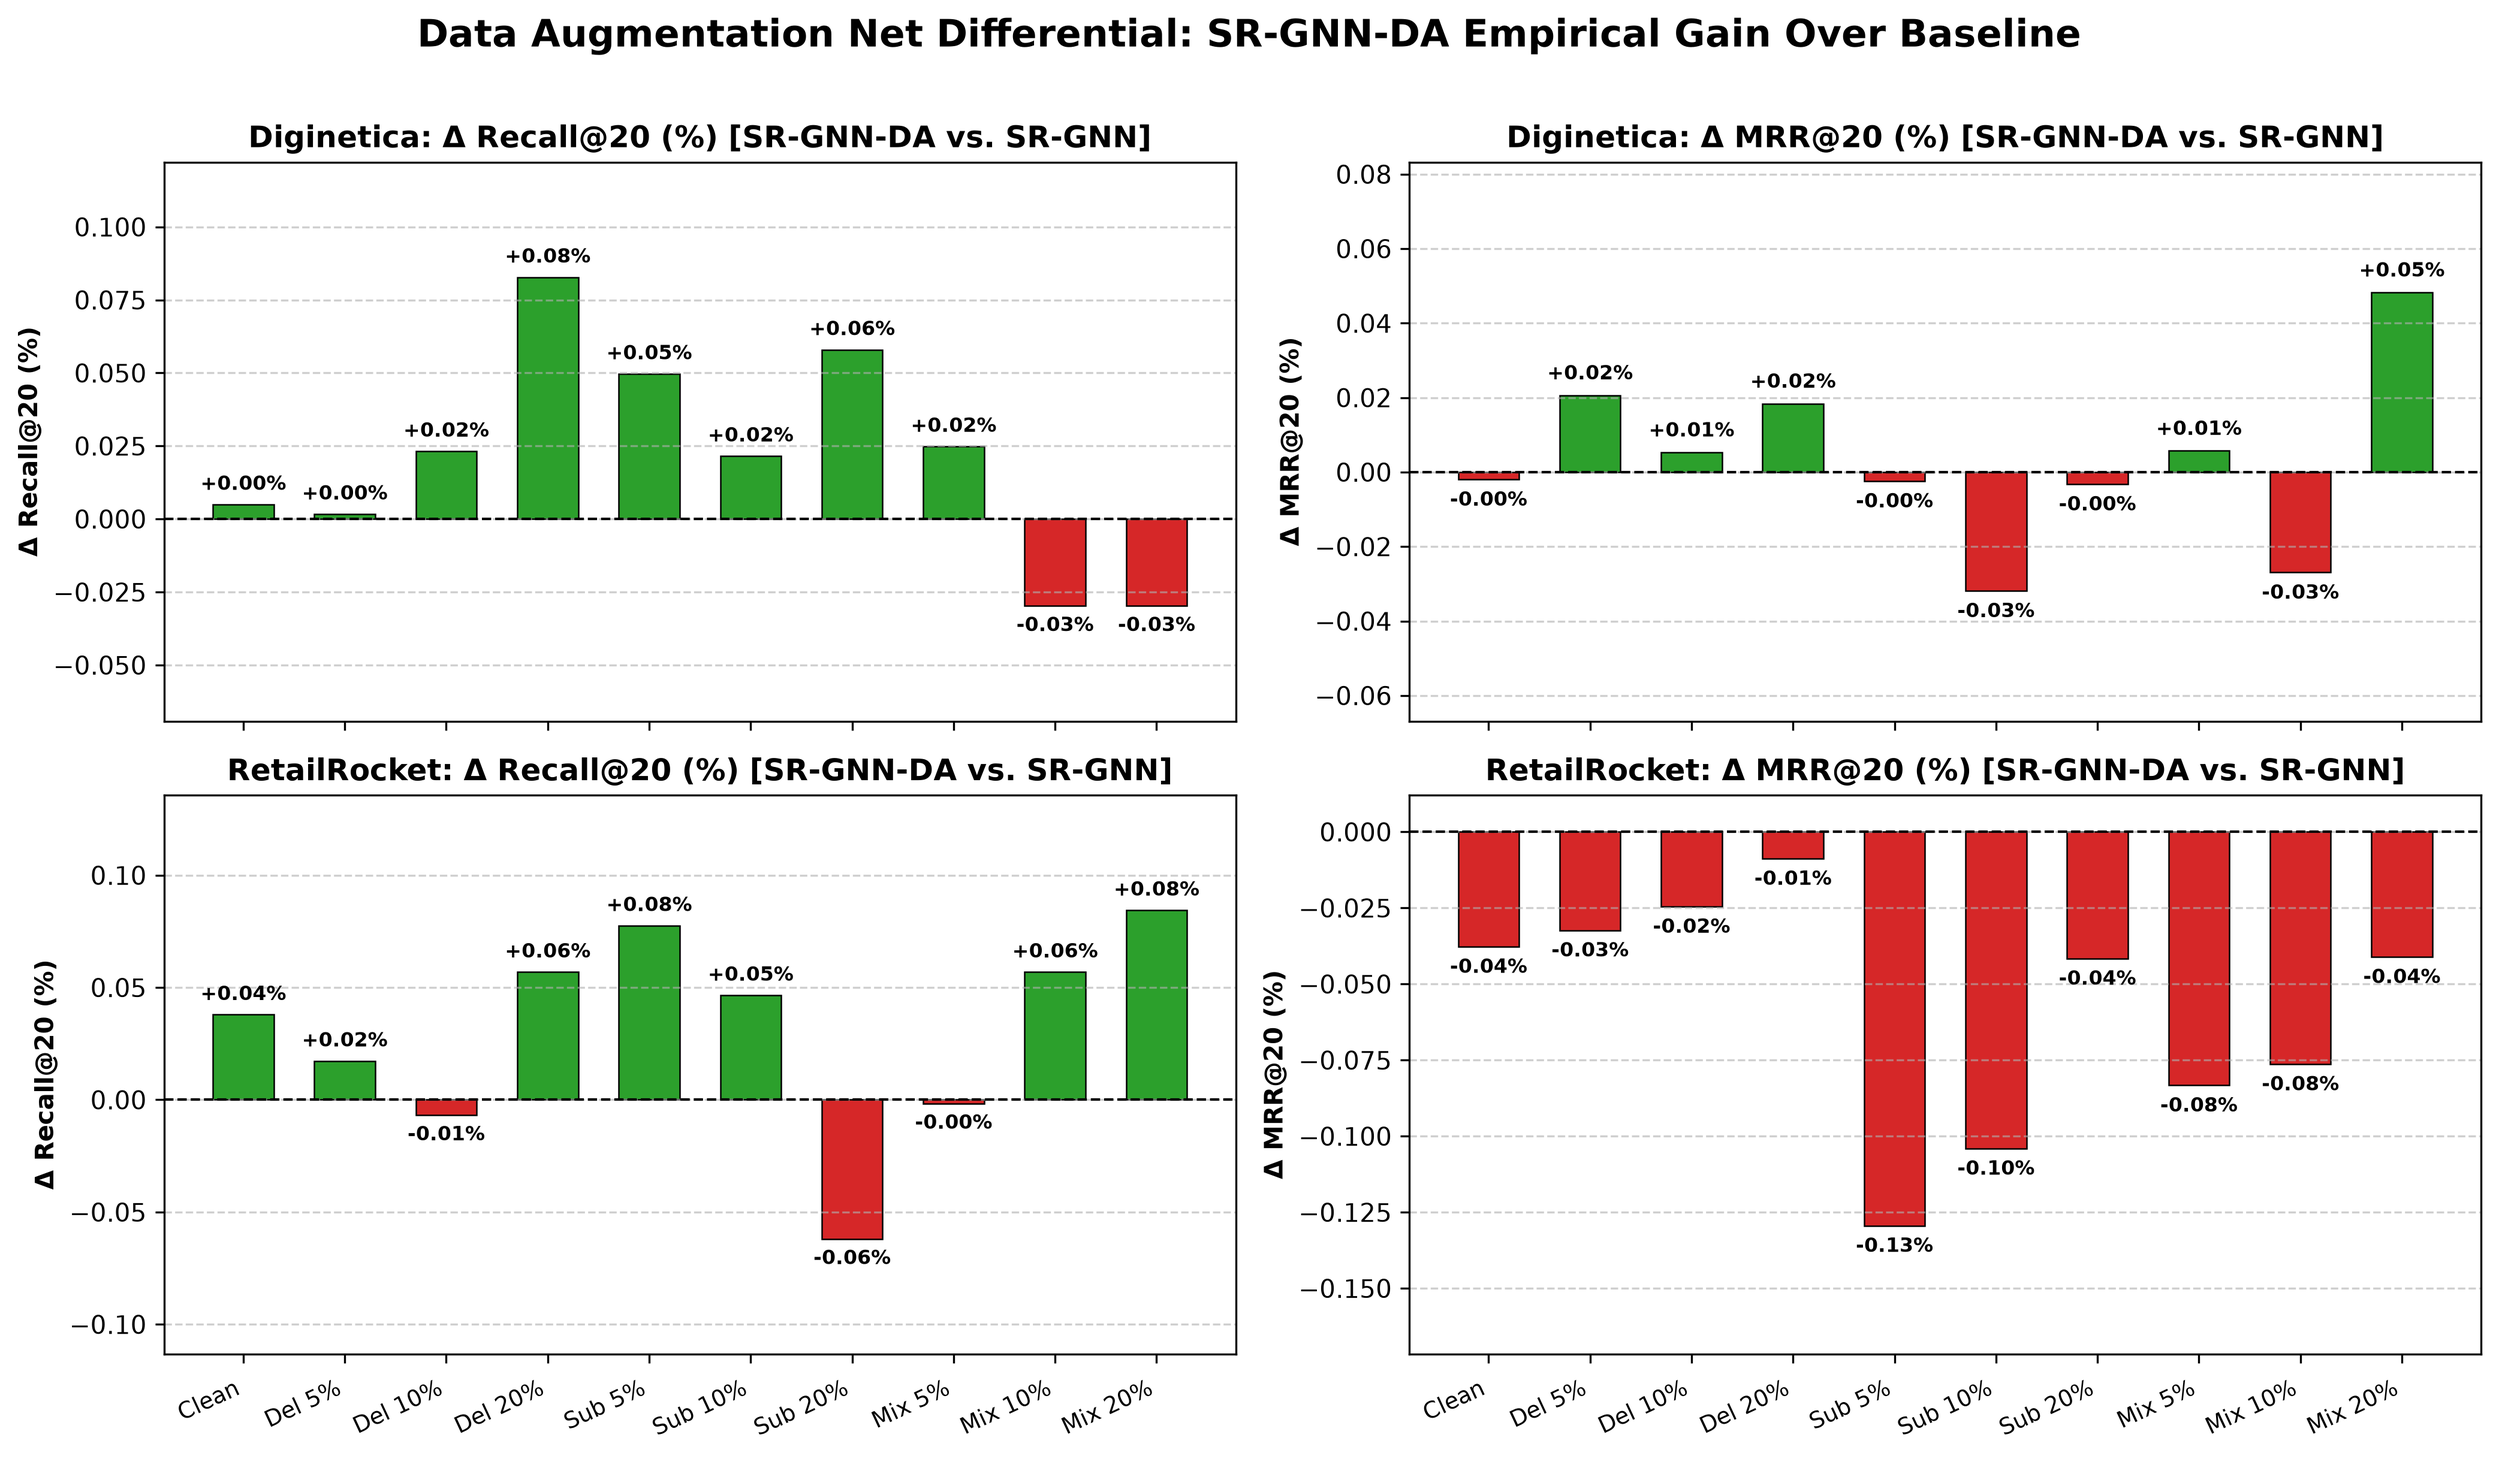
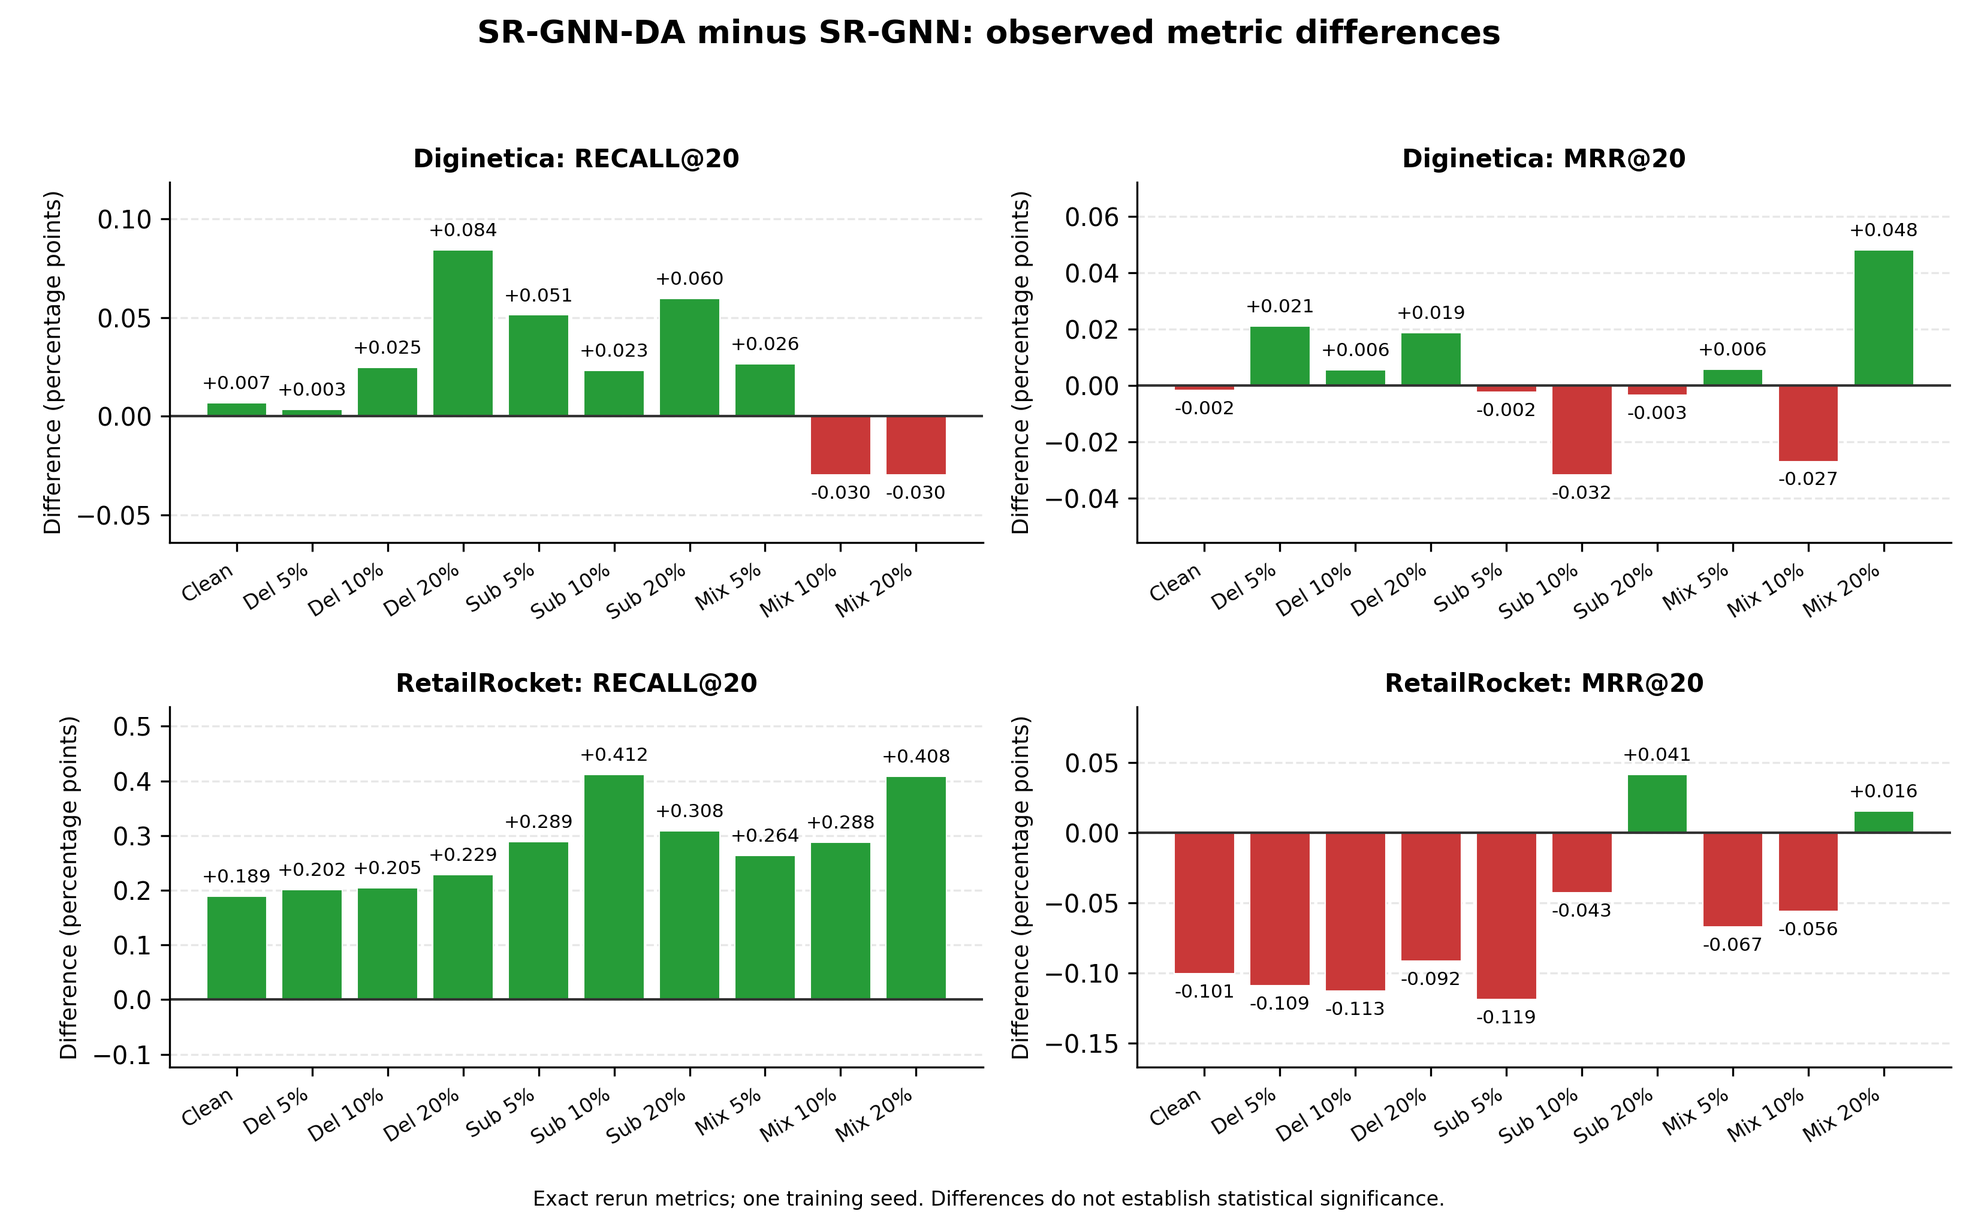
docs(report): refresh SR-GNN-DA robustness figures

diff --git a/midterm-report/main.tex b/midterm-report/main.tex
@@ -221,7 +221,7 @@ SASRec outperforms SR-GNN on clean sequences by +2.67\% Recall@20 on Diginetica 
 \begin{figure}[t]
   \centering
   \includegraphics[width=\linewidth]{diginetica_stratified_length.png}
-  \caption{Architectural accuracy stratified by session length buckets on Diginetica. SR-GNN degrades from 50.9\% on Short sessions down to 45.7\% on Long sessions (the ``drift tax''), while SASRec demonstrates superior resilience (48.2\%) on extended sequences.}
+  \caption{Diginetica results by session length. SR-GNN-DA bars reflect an earlier run; updated aggregate rerun results appear in Table~\ref{tab:noise_results}.}
   \label{fig:stratified_length}
 \end{figure}
 
